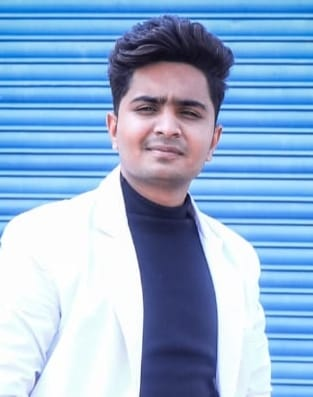
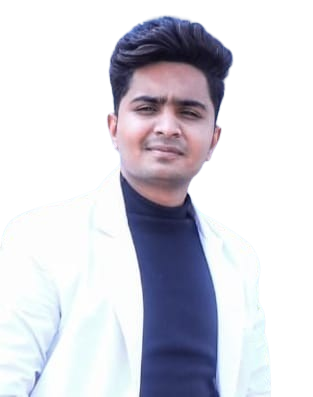
Updated team images

diff --git a/index.html b/index.html
@@ -268,11 +268,11 @@
             <!-- Member 3 -->
             <div class="team-card" id="member3">
                 <div class="team-image">
-                    <img src="./Assets/editor.jpg" alt="" class="madam">
+                    <img src="./Assets/IMG_3779.JPEG" alt="" class="madam">
                 </div>
                 <div class="team-content">
-                    Name <br>
-                    Position
+                    <p class="name3">Vinayak Jha</p>
+                    <p class="position3">Data Science Instructor</p>
                 </div>
             </div>
 
@@ -293,7 +293,7 @@
                 <!-- Member 5 -->
                 <div class="team-card" id="member5">
                     <div class="team-image">
-                        <img src="./Assets/madam.jpg" alt="" class="madam">
+                        <img src="./Assets/editor.jpg" alt="" class="madam">
                     </div>
                     <div class="team-content">
                         Name <br>

diff --git a/mediaquery.css b/mediaquery.css
@@ -288,7 +288,7 @@
       position: relative;
       background-color: rgb(231, 231, 231);
       height: 60rem;
-      bottom: 315px;
+      bottom: 200px;
       flex-direction: column;
     }
   
@@ -462,7 +462,7 @@
       height: 800px;
       justify-content: center;
       position: relative;
-      bottom: 250px;
+      bottom: 200px;
     }
   
     .team-heading {

diff --git a/styles.css b/styles.css
@@ -499,7 +499,16 @@ hr{
   bottom: 75px; 
 }
 
+.name3{
 
+  position: relative;
+    left: -13px;
+
+}
+.position3{
+  left: -57px;
+  position: relative;
+}
 
 
 .contactus-heading{
